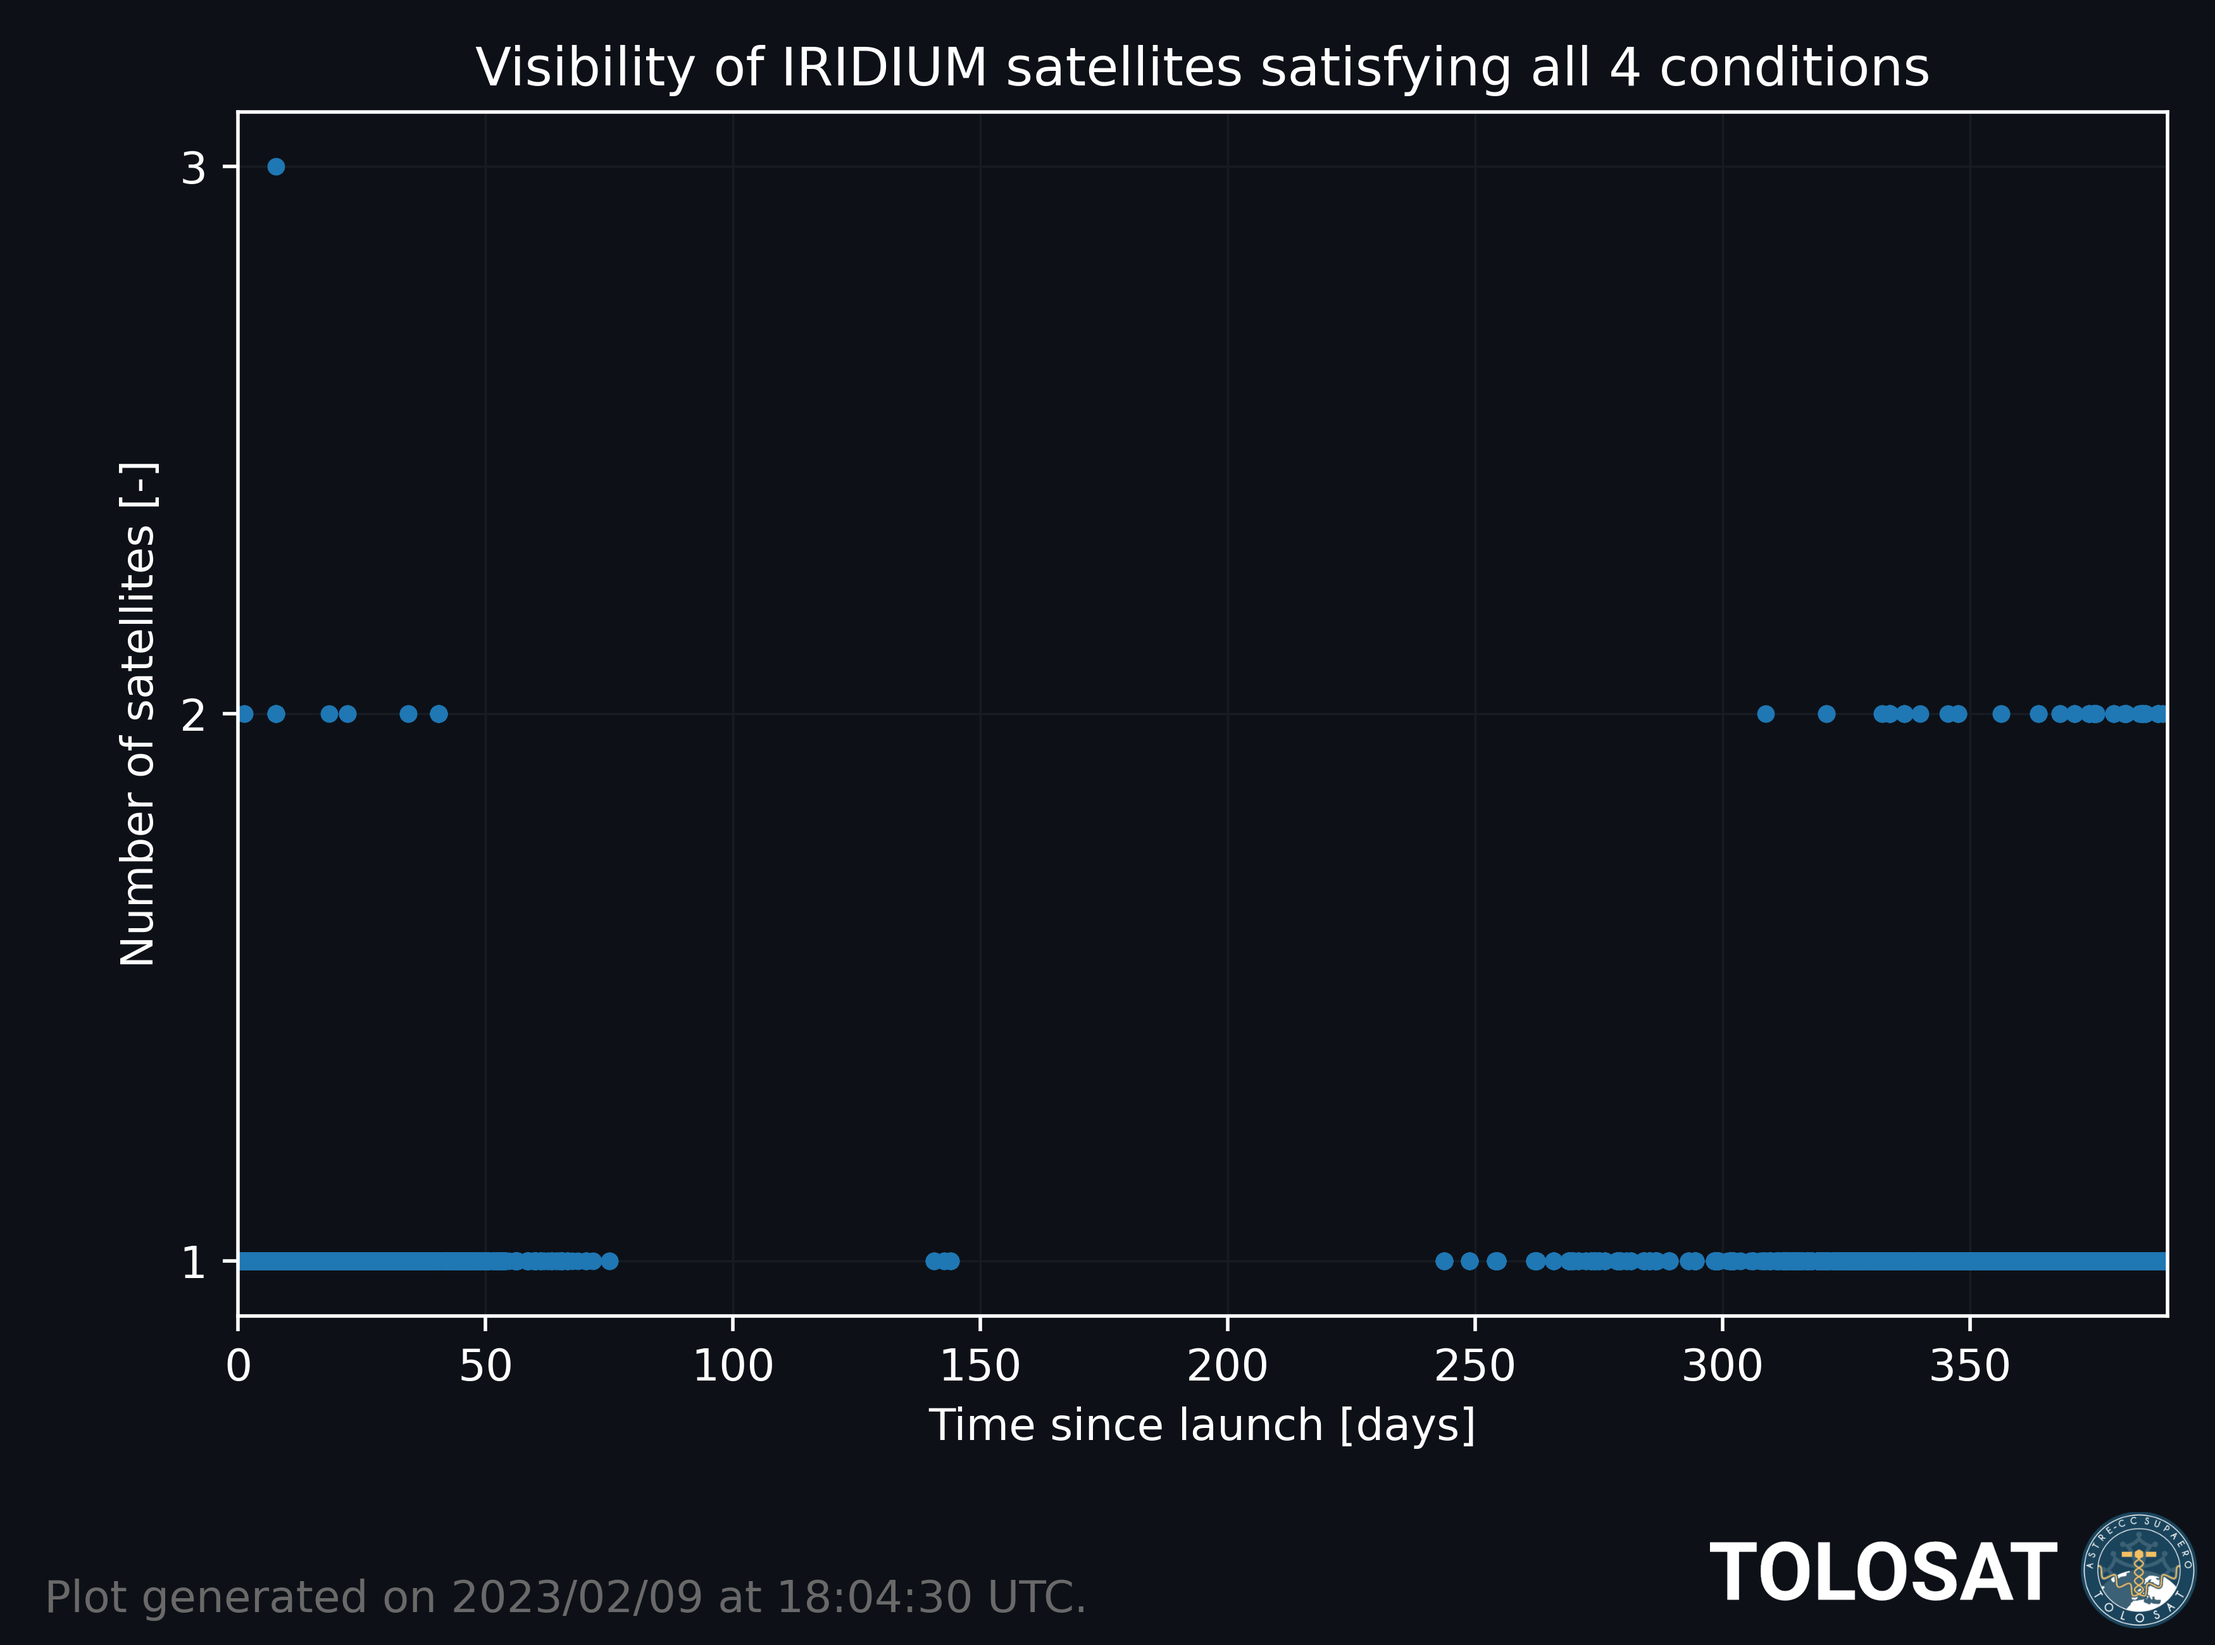
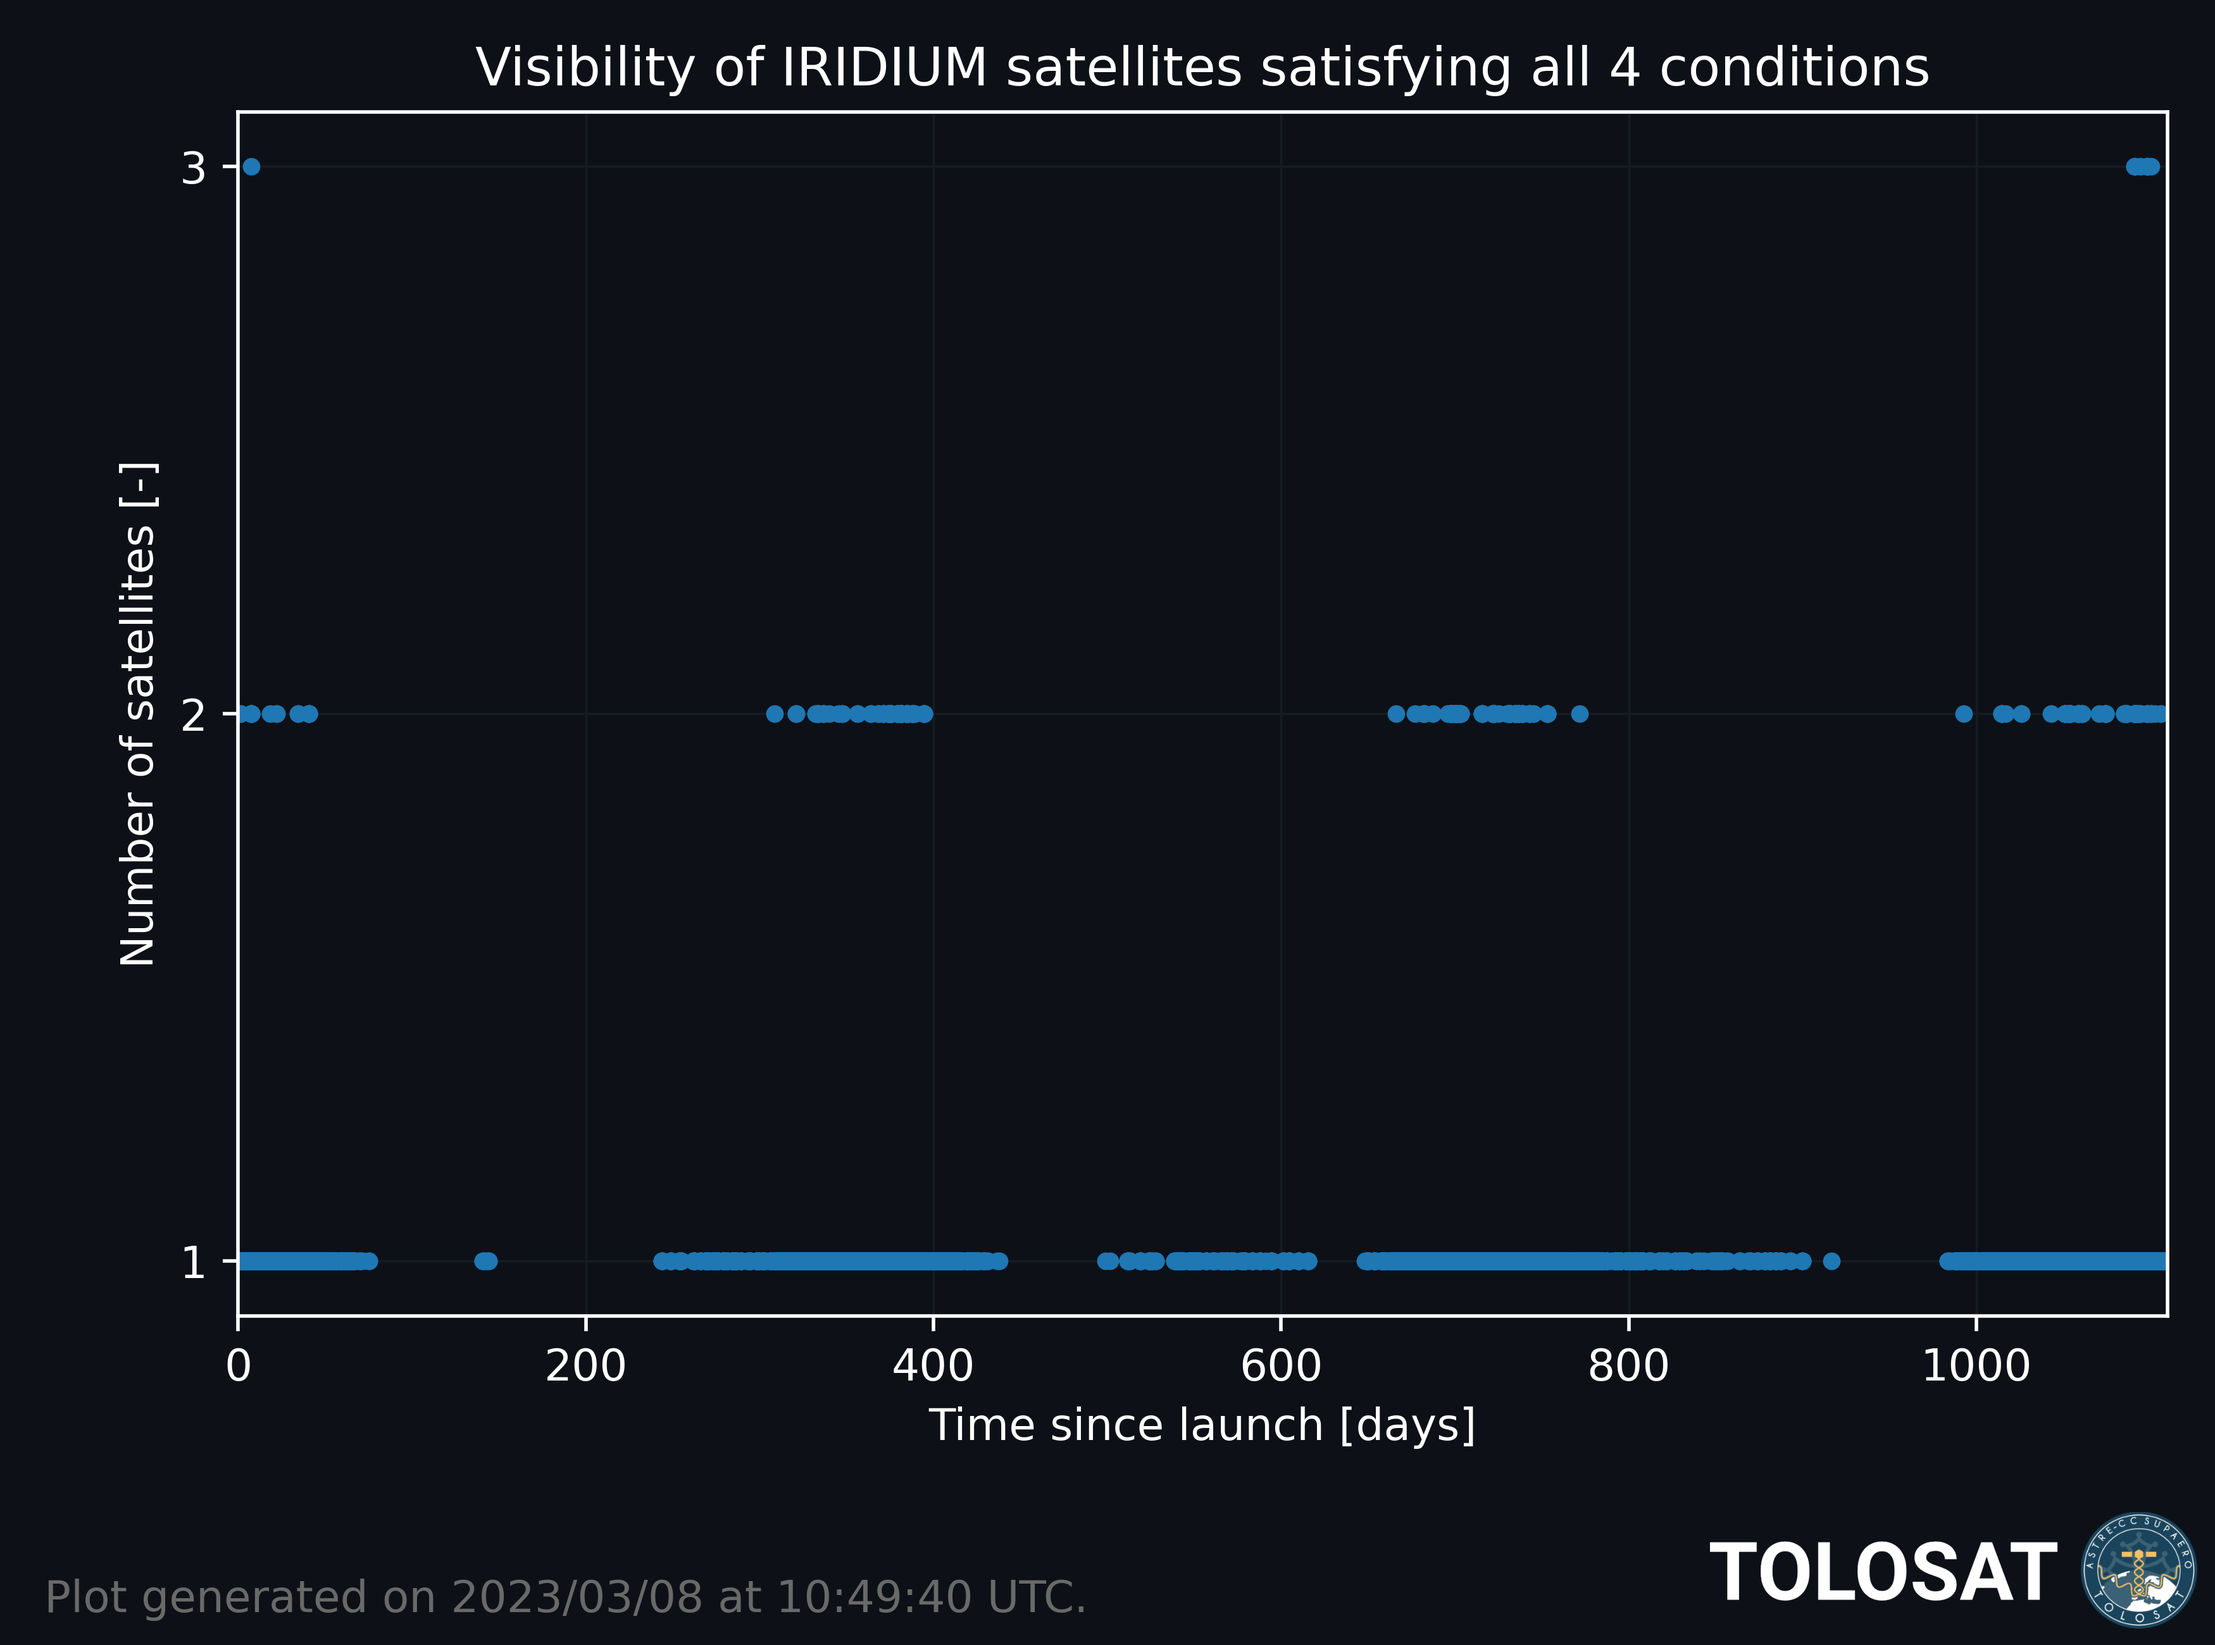
Updated dark plots

diff --git a/python/iridium/iridium_analysis.py b/python/iridium/iridium_analysis.py
@@ -8,6 +8,18 @@ from iridium_doppler import (
 
 from useful_functions import plot_functions as pf
 
+fig, axes = pf.dark_figure()
+axes[0].plot(
+    IRIDIUM_sat_results["seconds"] / 86400, IRIDIUM_sat_results["doppler_shift"] / 1e3
+)
+axes[0].set_title(f"Doppler shift of {selected_iridium}")
+axes[0].set_xlabel("Time since launch [days]")
+axes[0].set_ylabel("Doppler shift [kHz]")
+axes[0].set_xlim(0, IRIDIUM_sat_results["seconds"].max() / 86400)
+pf.finish_dark_figure(
+    fig, f"results/{selected_iridium_nospace}_doppler_shift.png", show=True
+)
+
 fig, axes = pf.light_figure()
 axes[0].plot(
     IRIDIUM_sat_results["seconds"] / 86400, IRIDIUM_sat_results["doppler_shift"] / 1e3
@@ -20,6 +32,18 @@ pf.finish_light_figure(
     fig, f"results/{selected_iridium_nospace}_doppler_shift_light.png", show=True
 )
 
+fig, axes = pf.dark_figure()
+axes[0].plot(
+    IRIDIUM_sat_results["seconds"] / 86400, IRIDIUM_sat_results["doppler_rate"]
+)
+axes[0].set_title(f"Doppler rate of {selected_iridium}")
+axes[0].set_xlabel("Time since launch [days]")
+axes[0].set_ylabel("Doppler rate [Hz/s]")
+axes[0].set_xlim(0, IRIDIUM_sat_results["seconds"].max() / 86400)
+pf.finish_dark_figure(
+    fig, f"results/{selected_iridium_nospace}_doppler_rate.png", show=True
+)
+
 fig, axes = pf.light_figure()
 axes[0].plot(
     IRIDIUM_sat_results["seconds"] / 86400, IRIDIUM_sat_results["doppler_rate"]
@@ -30,6 +54,21 @@ axes[0].set_ylabel("Doppler rate [Hz/s]")
 axes[0].set_xlim(0, IRIDIUM_sat_results["seconds"].max() / 86400)
 pf.finish_light_figure(
     fig, f"results/{selected_iridium_nospace}_doppler_rate_light.png", show=True
+)
+
+fig, axes = pf.dark_figure()
+axes[0].plot(
+    IRIDIUM_visibility["seconds"] / 86400,
+    IRIDIUM_visibility["sum_ok"],
+    linestyle="none",
+    marker=".",
+)
+axes[0].set_title("Visibility of IRIDIUM satellites satisfying all 4 conditions")
+axes[0].set_xlabel("Time since launch [days]")
+axes[0].set_ylabel("Number of satellites [-]")
+axes[0].set_xlim(0, IRIDIUM_visibility["seconds"].max() / 86400)
+pf.finish_dark_figure(
+    fig, "results/IRIDIUM_visibility.png", show=True, force_y_int=True
 )
 
 fig, axes = pf.light_figure()
@@ -47,6 +86,15 @@ pf.finish_light_figure(
     fig, "results/IRIDIUM_visibility_light.png", show=True, force_y_int=True
 )
 
+fig, axes = pf.dark_figure()
+axes[0].vlines(IRIDIUM_windows["seconds"] / 86400, 0, IRIDIUM_windows["duration"] / 60)
+axes[0].set_title("Visibility windows of at least one IRIDIUM satellite")
+axes[0].set_xlabel("Time since launch [days]")
+axes[0].set_ylabel("Window duration [mins]")
+axes[0].set_ylim(0, IRIDIUM_windows["duration"].max() / 60)
+axes[0].set_xlim(0, IRIDIUM_windows["seconds"].max() / 86400)
+pf.finish_dark_figure(fig, "results/IRIDIUM_windows.png", show=True)
+
 fig, axes = pf.light_figure()
 axes[0].vlines(IRIDIUM_windows["seconds"] / 86400, 0, IRIDIUM_windows["duration"] / 60)
 axes[0].set_title("Visibility windows of at least one IRIDIUM satellite")
@@ -55,29 +103,3 @@ axes[0].set_ylabel("Window duration [mins]")
 axes[0].set_ylim(0, IRIDIUM_windows["duration"].max() / 60)
 axes[0].set_xlim(0, IRIDIUM_windows["seconds"].max() / 86400)
 pf.finish_light_figure(fig, "results/IRIDIUM_windows_light.png", show=True)
-
-# mask = (results_dict["timedelta"] > timedelta(hours=2310, minutes=13)) & (
-#         results_dict["timedelta"] <= timedelta(hours=2310, minutes=27))
-# fig, axes = pf.dark_figure()
-# axes[0].plot(results_dict["timedelta"].loc[mask].dt.total_seconds(),
-#              results_dict["IRIDIUM 113"].loc[mask, "doppler_shift"].to_list(), linestyle="none",
-#              marker=".")
-# axes[0].set_title("Doppler shift of IRIDIUM 113")
-# axes[0].set_xlabel("Time [seconds]")
-# axes[0].set_ylabel("Doppler shift [Hz]")
-# axes[0].set_xlim(min(results_dict["timedelta"].loc[mask].dt.total_seconds()),
-#                  max(results_dict["timedelta"].loc[mask].dt.total_seconds()))
-# pf.finish_dark_figure(fig, "IRIDIUM_all_ok_1day_doppler_shift.png", show=True)
-
-# mask = (results_dict["timedelta"] > timedelta(hours=2325, minutes=10)) & (
-#         results_dict["timedelta"] <= timedelta(hours=2335, minutes=13))
-# fig, axes = pf.dark_figure()
-# axes[0].plot(results_dict["timedelta"].loc[mask].dt.total_seconds(),
-#              IRIDIUM_visibility.loc[mask, "sum_ok"].to_list(), linestyle="none",
-#              marker=".")
-# axes[0].set_title("Visibility of IRIDIUM satellites satisfying all 4 conditions")
-# axes[0].set_xlabel("Time [seconds]")
-# axes[0].set_ylabel("Number of satellites [-]")
-# axes[0].set_xlim(min(results_dict["timedelta"].loc[mask].dt.total_seconds()),
-#                  max(results_dict["timedelta"].loc[mask].dt.total_seconds()))
-# pf.finish_dark_figure(fig, "IRIDIUM_all_ok_1day.png", show=True)
